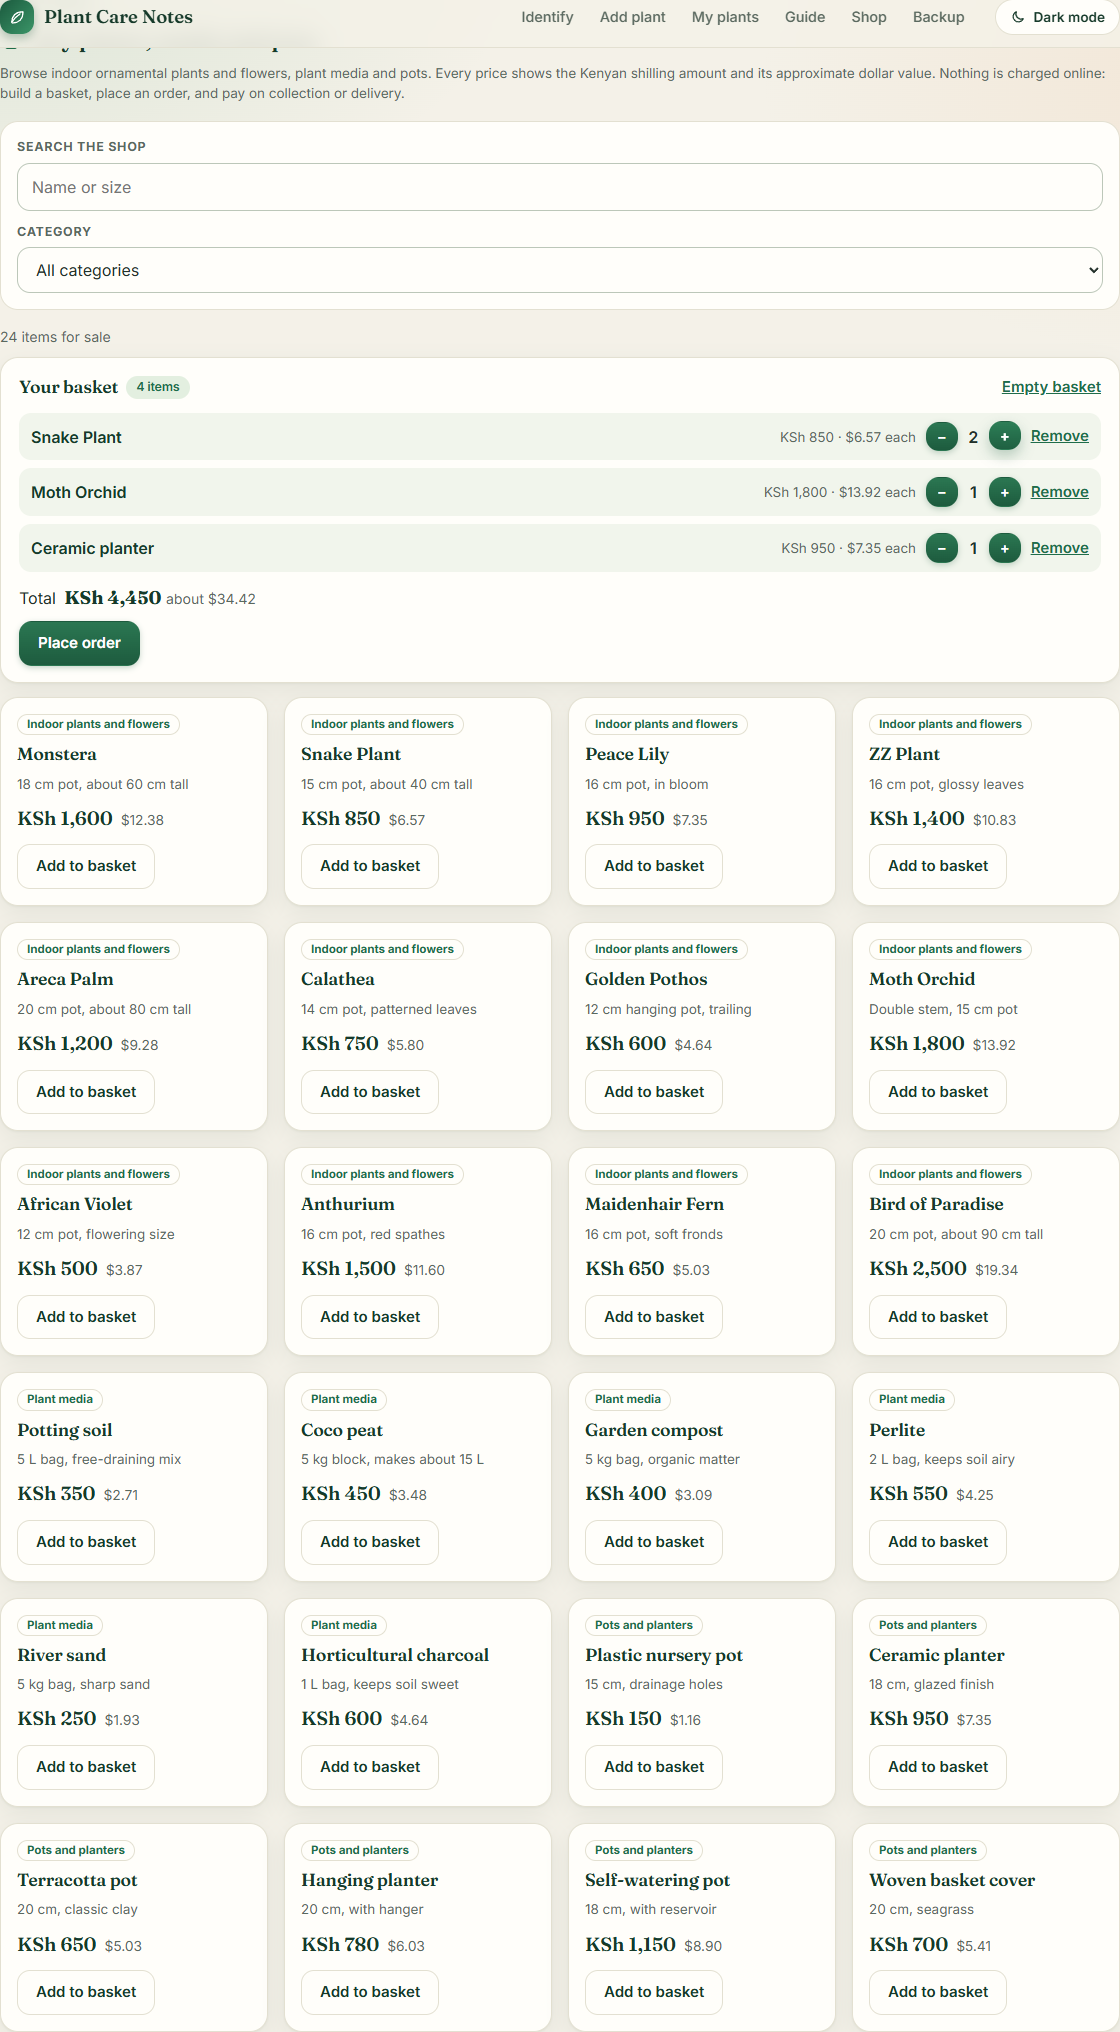
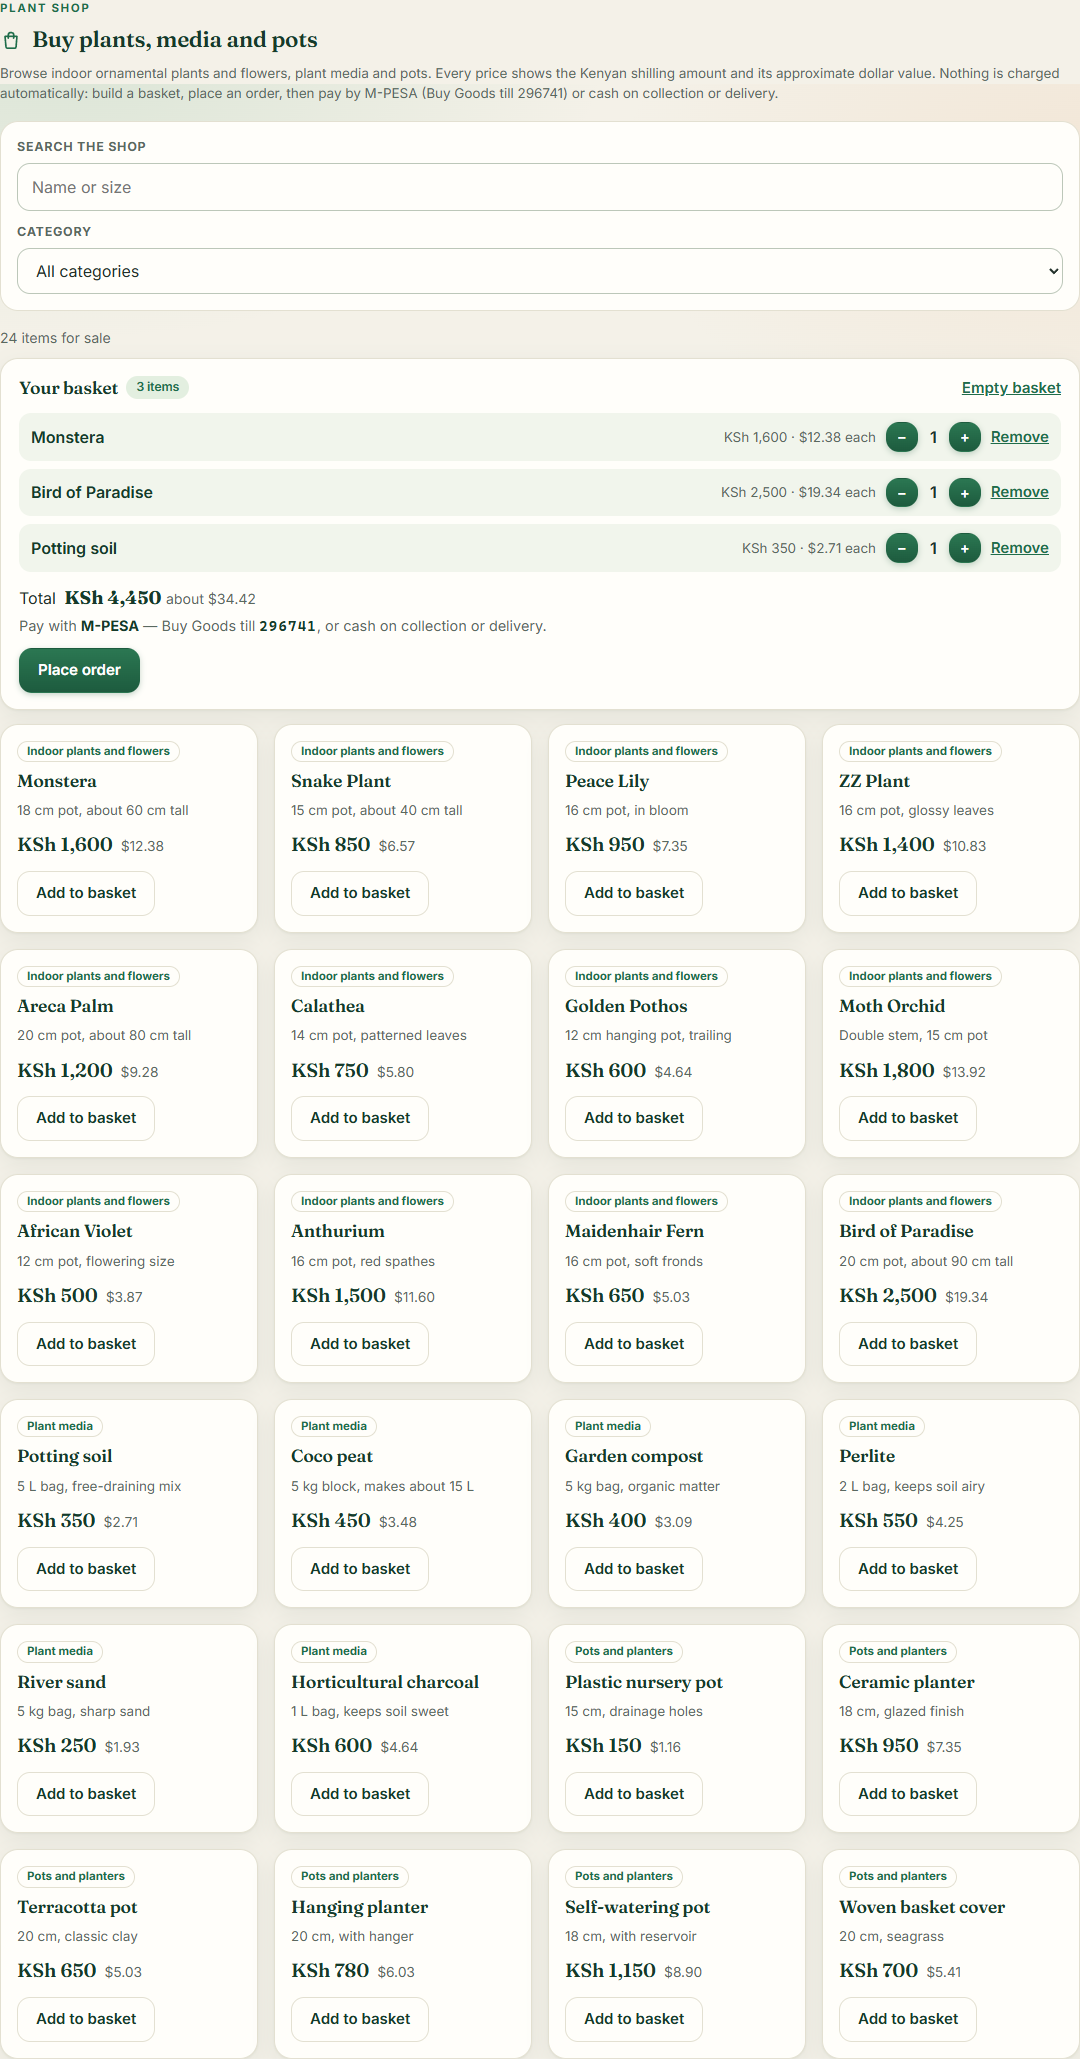
Add M-PESA payment method with a Buy Goods till number

Changed region(s): [[0.0, 0.0, 1.0, 0.9921], [0.6722, 0.186, 0.9778, 0.279], [0.9778, 0.124, 1.0, 0.155]]

diff --git a/src/PlantShop.jsx b/src/PlantShop.jsx
@@ -1,6 +1,6 @@
 import { useMemo, useState } from 'react'
 import { BagIcon } from './icons.jsx'
-import { SHOP_CATEGORIES, SHOP_ITEMS, formatKsh, formatUsd, usdFromKsh } from './shopItems.js'
+import { MPESA, SHOP_CATEGORIES, SHOP_ITEMS, formatKsh, formatUsd, usdFromKsh } from './shopItems.js'
 
 const ALL = 'all'
 
@@ -58,7 +58,8 @@ export default function PlantShop() {
     setOrder(
       `Order saved in this browser: ${basketCount} ${basketCount === 1 ? 'item' : 'items'}, `
       + `${formatKsh(totalKsh)} (about ${formatUsd(totalUsd)}). `
-      + 'No payment is taken online — pay on collection or delivery.',
+      + `Pay ${MPESA.provider} to ${MPESA.method} till ${MPESA.till}, `
+      + 'or pay cash on collection or delivery. Nothing is charged from this site.',
     )
     setBasket({})
   }
@@ -69,8 +70,9 @@ export default function PlantShop() {
       <h2 id="shop-heading"><BagIcon size={22} /> Buy plants, media and pots</h2>
       <p className="hint">
         Browse indoor ornamental plants and flowers, plant media and pots. Every price shows the
-        Kenyan shilling amount and its approximate dollar value. Nothing is charged online: build a
-        basket, place an order, and pay on collection or delivery.
+        Kenyan shilling amount and its approximate dollar value. Nothing is charged automatically:
+        build a basket, place an order, then pay by {MPESA.provider} ({MPESA.method} till{' '}
+        {MPESA.till}) or cash on collection or delivery.
       </p>
 
       <div className="controls shop-filters" role="search" aria-label="Filter the shop">
@@ -126,6 +128,10 @@ export default function PlantShop() {
           </ul>
           <p className="basket-total">
             Total <strong>{formatKsh(totalKsh)}</strong> <span>about {formatUsd(totalUsd)}</span>
+          </p>
+          <p className="basket-pay">
+            Pay with <strong>{MPESA.provider}</strong> — {MPESA.method} till{' '}
+            <strong className="till">{MPESA.till}</strong>, or cash on collection or delivery.
           </p>
           <div className="actions">
             <button type="button" onClick={placeOrder}>Place order</button>

diff --git a/src/PlantShop.test.jsx b/src/PlantShop.test.jsx
@@ -3,7 +3,7 @@ import userEvent from '@testing-library/user-event'
 import { describe, expect, it } from 'vitest'
 import PlantShop from './PlantShop.jsx'
 import App from './App.jsx'
-import { SHOP_CATEGORIES, SHOP_ITEMS, formatKsh, formatUsd, usdFromKsh } from './shopItems.js'
+import { MPESA, SHOP_CATEGORIES, SHOP_ITEMS, formatKsh, formatUsd, usdFromKsh } from './shopItems.js'
 
 function shopGrid() {
   return screen.getByRole('list', { name: 'Items for sale' })
@@ -87,6 +87,27 @@ describe('PlantShop', () => {
     expect(status).toHaveTextContent(formatKsh(withQty))
     expect(status).toHaveTextContent(formatUsd(usdFromKsh(withQty)))
     expect(screen.queryByRole('region', { name: /your basket/i })).not.toBeInTheDocument()
+  })
+
+  it('offers M-PESA payment with a till number', async () => {
+    const user = userEvent.setup({ applyAccept: false })
+    render(<PlantShop />)
+    expect(screen.getByText(/pay by M-PESA \(Buy Goods till/i)).toBeInTheDocument()
+    await user.click(within(cardFor('Peace Lily')).getByRole('button', { name: 'Add Peace Lily to basket' }))
+    const basket = screen.getByRole('region', { name: /your basket/i })
+    expect(within(basket).getByText(/Pay with/)).toBeInTheDocument()
+    expect(within(basket).getByText(MPESA.provider)).toBeInTheDocument()
+    expect(within(basket).getByText(MPESA.till)).toBeInTheDocument()
+  })
+
+  it('repeats the M-PESA till number in the order confirmation', async () => {
+    const user = userEvent.setup({ applyAccept: false })
+    render(<PlantShop />)
+    await user.click(within(cardFor('Terracotta pot')).getByRole('button', { name: 'Add Terracotta pot to basket' }))
+    await user.click(screen.getByRole('button', { name: 'Place order' }))
+    const status = screen.getByRole('status')
+    expect(status).toHaveTextContent(`Pay ${MPESA.provider} to ${MPESA.method} till ${MPESA.till}`)
+    expect(status).toHaveTextContent('cash on collection or delivery')
   })
 
   it('removes a whole line from the basket', async () => {

diff --git a/src/styles.css b/src/styles.css
@@ -417,6 +417,9 @@ button.link:hover { transform: none; box-shadow: none; }
 .basket-total strong { font-family: var(--font-display); font-size: 1.15rem; color: var(--heading); margin-left: 4px; }
 .basket-total span { color: var(--muted); font-size: .88rem; }
 .basket .actions { margin-top: 10px; }
+.basket-pay { margin: 0 0 4px; font-size: .9rem; color: var(--muted); }
+.basket-pay strong { color: var(--heading); }
+.till { font-family: ui-monospace, "Cascadia Mono", Consolas, "Courier New", monospace; font-weight: 700; letter-spacing: .08em; color: var(--accent); }
 
 /* ---------- Toast and footer ---------- */
 .toast { position: fixed; left: 50%; bottom: 22px; transform: translateX(-50%); display: flex; align-items: center; gap: 16px; background: #123a29; color: #fff; border-radius: 16px; padding: 11px 14px 11px 18px; box-shadow: var(--shadow-lift); z-index: 40; max-width: calc(100% - 24px); }

diff --git a/src/shopItems.js b/src/shopItems.js
@@ -3,6 +3,15 @@
 // indicative rate so the two currencies can never drift apart.
 export const KSH_PER_USD = 129.28
 
+// The payment method offered at checkout: M-PESA Buy Goods (Lipa na M-PESA).
+// The till number below is a random sample for the demo — replace it with the
+// shop's real Buy Goods till before taking live orders.
+export const MPESA = {
+  provider: 'M-PESA',
+  method: 'Buy Goods',
+  till: '296741',
+}
+
 export const SHOP_CATEGORIES = [
   { id: 'plant', label: 'Indoor plants and flowers' },
   { id: 'media', label: 'Plant media' },

diff --git a/WORKSHOP-CHECKS.md b/WORKSHOP-CHECKS.md
@@ -70,6 +70,7 @@ The tests use a fake service, so checks 29 to 31 need a real API key. A free Goo
 | 35 | Browse the shop | Open **Shop**. Search by name or size, then filter by category and clear. | Every item shows its name and its price in KSh and dollars; the count updates; no matches shows a message and a clear button. | PlantShop.test.jsx | |
 | 36 | Basket and order | Add two items, change a quantity with +, remove one, then select **Place order**. | The basket shows per-item and total prices in both currencies. Placing an order confirms the amount in KSh and dollars and empties the basket. | PlantShop.test.jsx | |
 | 37 | Shop on a phone | Resize the window to phone width. | The item cards stack into one column and stay readable. | none | **manual** |
+| 38 | M-PESA payment | Add an item and check the basket, then place the order. | The intro and the basket show **M-PESA** with a Buy Goods till number; the confirmation repeats the till number to pay to and still offers cash on collection or delivery. | PlantShop.test.jsx | |
 
 ## Main workflow run
 

diff --git a/README.md b/README.md
@@ -74,7 +74,7 @@ Open the local address shown in the terminal. Keep the terminal running.
 - src/photo.js: photo validation and compression
 - src/PlantScanner.jsx, src/identify.js, src/scanToPlant.js: the photo identification screen, the Claude API request and result handling, and turning a result into a saved plant
 - src/IssuePanel.jsx, src/ManagementPlan.jsx, src/PestGuide.jsx, src/pestsAndDiseases.js: problem reports, management plans, the guide, and the symptom matching data
-- src/PlantShop.jsx, src/shopItems.js: the plant shop, its catalogue and the KSh/USD prices
+- src/PlantShop.jsx, src/shopItems.js: the plant shop, its catalogue, KSh/USD prices and the M-PESA payment till
 - src/plantTypes.js, src/careRecommendations.js: the option lists
 - public/: web app manifest, icons and the offline service worker
 - docs/implementation-plan.md: the slice-by-slice build plan and scope changes
